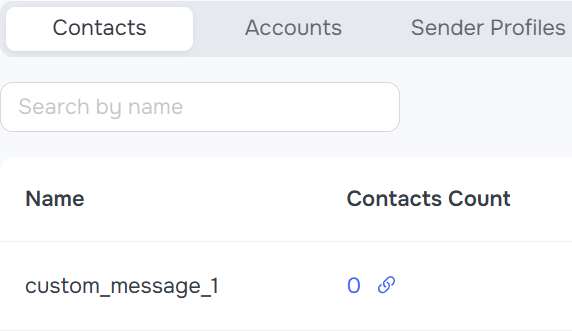
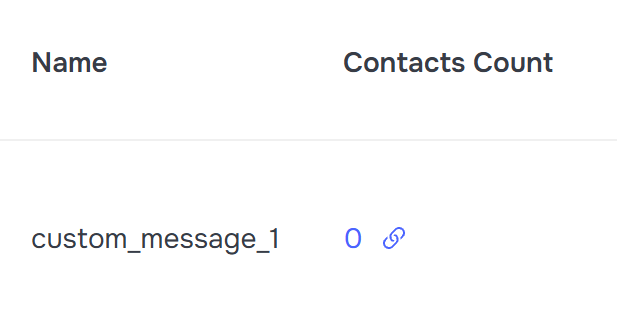
[getsales] Demo 1 folder and custom-field shots re-captured at 128% (every count 0); message 1 to come from the recording
Claude-Session: https://claude.ai/code/session_01UyYB1sUAYcfd4gxsJAphTS

diff --git a/getsales/SPEC.md b/getsales/SPEC.md
@@ -282,3 +282,4 @@ Before 18:00 Prague, a passed deadline means poke, not decide. From 18:00, decid
 | 2 Nov 17:41 (s-d3-getsales, 2a7fc2a1): workflow #23's typo ("Folienätzen", nodes 7 and 21) stays in GetSales until Alex fixes it in the UI. `update_flow_step` on node 7 was retried and came back gated again ("backend lookup failed; gated to be safe", count 0), so its token was not committed and no preview goes to the desk. The local copy (`icps\consumer-lending.*`, `workflows.json`) already reads "Foliensätzen". | The gate is the connector's own, and a token is Alex's to commit. A desk preview expires in 5 minutes, which he can't meet while recording. The demo 1 task already asks him for the ten-second UI fix. | #23 isn't opened on camera; the folder scroll shows names only. | Re-checked at close (§7 step 11); if he wants it fixed by API, one preview he approves on the spot. |
 | 2 Nov 17:50 (s-d3-getsales, 2a7fc2a1): the two entries' words (title, description, cover lines, tags, summary) are drafted now from the talking points, after `marketing:draft-content` (SKILL ON from orchestration), in one Claude Doc: claude.ai/artifact/VHDdVnqYvw43euwRRp5mqC (doc `e50390db-90fa-44b0-a0e1-fce31cdbe5ab`). Each summary is rewritten against its transcript once S-D9 sends CLIPPED. The fields follow the site's entry template (`website\app\demos\entries.ts`, POST-FORMAT v1.1, kind `video`). | Handoff step 3, done ahead of the recording so the BUILD can go as soon as a clip is cut. Facts checked against `routing\route.py` (12/12; 4 rules, 7 Jev, 1 no fit) and `icps\*.md` (Rohlík, Oneplay). | It takes the drafting off the critical path before the meeting on 3 Nov. | Summaries change with the transcript; titles and descriptions change only if Alex edits them in the Doc. |
 | 2 Nov 19:00 (s-d3-getsales, 2a7fc2a1): both entries pre-built in full in POST-FORMAT v1.5 (`site\demo-1.md`, `site\demo-2.md`) while the recordings wait. Kind `showcase` and status `draft` until a clip exists, because kind `video` requires a YouTube id; the empty video slot is an HTML comment saying what to set. Demo 1's title is cut to 54 characters (v1.2's limit is 64). Figures: three GetSales screenshots taken in Alex's own Chrome by a subagent (new tab, read-only, closed after; app at `amazing.getsales.io`), each cropped and screen-checked twice (by the subagent, then by this session): only "Demo ·" flows, counts of 0, no folder names, leads, inbox or profile photo. Plus three PNGs of `routing\route.py`'s real coloured output, rendered with headless Edge. A fresh reviewer runs `design:design-critique` and `design:accessibility-review` on all six. | Alex at about 18:4x, relayed by orchestration: "fan out ... pre-build both GTM demos entries fully in the shared format ... figures ... each with a screen check for his own outbound, and an empty video slot". | After he records, only the video id and a summary pass are left, so both entries can go live well before the meeting on 3 Nov. | Swapping a screenshot for a still from his recording is one file each. The BUILD asks `website` to copy `site\assets\<slug>\` to `public\demos-assets\<slug>\`. |
+| 2 Nov 19:08 (s-d3-getsales, 2a7fc2a1): after the design and accessibility review (one blocker, the hard-cases alt text, fixed in 78a8bfb), the router PNGs were re-rendered at 84 columns (about 14 px in the column, the full run in three parts) and the GetSales folder and custom-field shots were re-captured at 128% (the folder now shows every count at 0). The message 1 shot was not redone: the subagent's tab was closed from outside mid-capture, and the rig began S14 at 19:01. No more automation in Alex's Chrome while he works; that figure becomes a still from his demo 1 recording, with the builder on screen at about 1:40. Placement (orch-site-map, 19:0x): both entries in /demos, demo 1 first; BUILDs go straight to `website`; tap-to-zoom on figures is passed to `website` by orch-site-map. | Legibility at the column width the site renders (`demos.css`, 100% width). Driving his browser during a take risks his recording and his work. | Every figure passes the screen check, and five of six are legible on desktop; the sixth is replaced from footage he records anyway. | One ffmpeg still and a crop after demo 1 is recorded. |

diff --git a/getsales/site/demo-1.md b/getsales/site/demo-1.md
@@ -14,7 +14,7 @@ cover:
 tags: ["outbound", "getsales", "classification"]
 reading_minutes: 4
 ---
-<!-- Video slot: when s-d9-legibility sends CLIPPED S-D3-C1, set kind to "video", add video (youtube_id, start) after deliverable, and rewrite this summary against the transcript. Words: Claude Doc e50390db (GetSales demo entries). Figures: getsales/site/assets/36-outbound-workflows-and-the-one-variable-behind-them/. -->
+<!-- Video slot: when s-d9-legibility sends CLIPPED S-D3-C1, set kind to "video", add video (youtube_id, start) after deliverable, and rewrite this summary against the transcript. Words: Claude Doc e50390db (GetSales demo entries). Figures: getsales/site/assets/36-outbound-workflows-and-the-one-variable-behind-them/. message-1-variable.png is a placeholder: replace it with a still from the recording (the builder at about 1:40), cropped to the title bar and node #6, screen-checked. -->
 
 Outbound at Addvery's size isn't one campaign. It's buyer types times languages times angles, and every lead has to land in exactly one of them.
 
@@ -46,8 +46,8 @@ Below 0.75, or when two answers are too close to call, a person decides. Those d
 The workflows sit in their own GetSales folder. The four ICPs come from Addvery's own website: retail loyalty, telco customer value, consumer lending and last-mile logistics. Each runs in Czech, German and English, and Slovak leads get Czech.
 
 > [!figure] /demos-assets/36-outbound-workflows-and-the-one-variable-behind-them/workflows-folder.png
-> Ten of the 36 workflows in the GetSales demo folder, each named Demo, ICP, language and tactic, every one switched off
-> Every toggle is off: none of the 36 is running
+> Six of the 36 workflows in the GetSales demo folder, named Demo, ICP, language and tactic, each switched off with 0 contacts
+> Every toggle off and every count at 0: none of the 36 is running
 
 Each ICP has three tactics. Signal: something just happened at their company. Problem: a known pain, tied to one fact about them. Proof: an Addvery case that looks like them.
 
